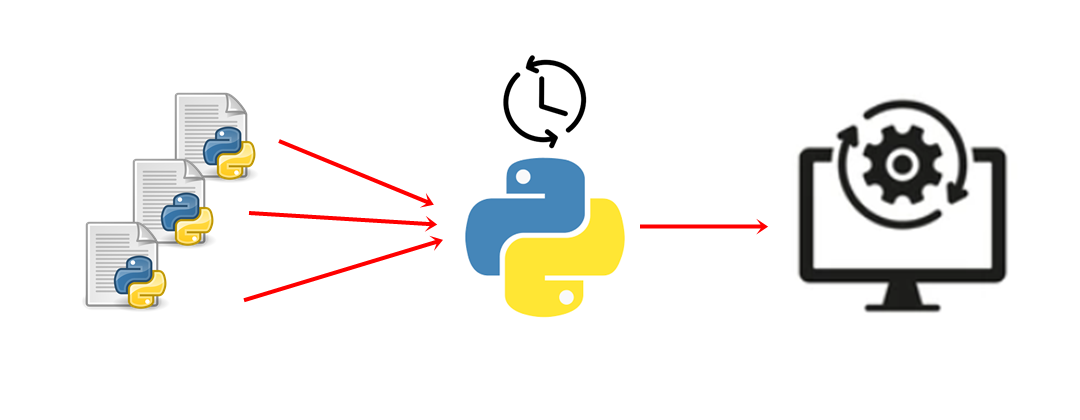
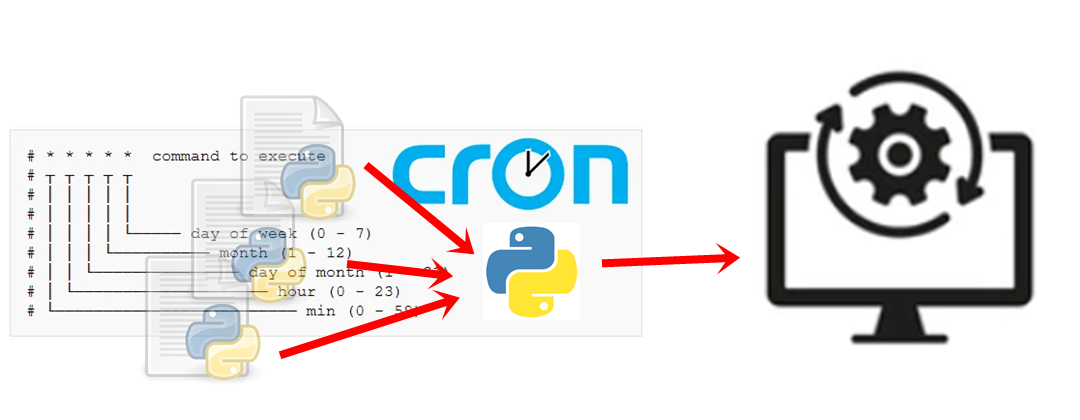
rename documentation folder

Changed region(s): [[0.0, 0.1238, 0.9778, 0.9286], [0.0611, 0.3405, 0.1222, 0.3714]]

diff --git a/main.py b/main.py
@@ -6,15 +6,51 @@ CronTaskByLokoV1.0
 This script run Task with time indication
 
 1 - put the scripts to execute in folder Task
-2 - register the time and name of script
+2 - Execute this file to work in cron time
 """
 import schedule
-from datetime import date
+from croniter import croniter
+import datetime
 import time
 from os import scandir
 
+
+def saveInfoInLOGFile(status, info):
+    _previous_log_info = ""
+    try:
+        with open("log.log", "r") as f:
+            _previous_log_info = f.read()
+    except:
+        pass
+    with open("log.log", "w") as f: # Save
+            data = ""
+
+            if _previous_log_info != "":
+                data = _previous_log_info + f"{status} - {datetime.date.today()} - {info}\n"
+            else:
+                data = f"{status} - {datetime.date.today()} - {info}\n"
+                
+            f.write(data)
+#..,,..............................:+,.............................::.........................................
+#.,#?..............................+@:............................,?*...........:#;...........................
+#.,@%.......;????;..,*????+,..,*???%@:.......;????+..:*???*,,?+;?*.*+..**+?%%+.:%@%*?:.....:?+*?%?:.;?:...:?;.
+#.,@%......%#;,,;#%..;::;+@?.:#%;::?@:......;@?,,:;.;@?:,:+::@S+;:.#S.,##;::+@*,+@*::,.....;@%;::%@;,#S,.,S#,.
+#.,@%.....:@?....?@,,*%??*@%.?@,...+@:......,?S%%*:.S#......:@*....#S.,#%....S#.:@+........;@+...,@?.:@?.?@:..
+#.,@%.....,#S,..,S#,?@:..,@%.+@+..,*@:......,,,,:%@:*@;...,,:@*....#S.,#%...:@?.:@*....;;..;@+..,*@;..;@?@;...
+#.,SS%%%%%,:%%??%%:.;SS???#?..*S%??%#:......;%???%*,,*S%??%::#+....S%.,##??%S*,.,?S??:,#S,.;@S??%%;....?@+....
+#..,,,,,,,...,::,.....,:,.,,...,::,.,........,,:,,.....,:,,..,.....,,.,@%,,,......,,,..,,..;@+,,,.....:#?.....
+#......................................................................*+..................:?:........+?,.....
 _SCRIPTS_ = {} # dict[key] = code
 # Read all scripts in folder
+def _isCronExpresionInCode(script_code, filename):
+    _1stLine = str(script_code).split("\n")[0]
+
+    if "#expresion_cron=" not in _1stLine:
+        saveInfoInLOGFile("LOAD-SCRIPT:ERROR-NOT-FOUND-CRONEXPRESION", filename)
+        return False
+    
+    return True
+
 def loadAlPythonFilesInTaskFolder():
     for i in scandir("Task"):
         if i.is_file():
@@ -22,28 +58,9 @@ def loadAlPythonFilesInTaskFolder():
                 _path = f"Task/{i.name}"
                 with open(_path) as f:
                     script_code = f.read()
-                    _SCRIPTS_[_path] = script_code
+                    if _isCronExpresionInCode(script_code, i.name):
+                        _SCRIPTS_[_path] = script_code # Save Script
 loadAlPythonFilesInTaskFolder()
-
-
-def saveInfoInLOGFile(status,info):
-    _previous_log_info = ""
-
-    try:
-        with open("log.log", "r") as f:
-            _previous_log_info = f.read()
-    except:
-        pass
-
-    with open("log.log", "w") as f: # Save
-            data = ""
-
-            if _previous_log_info != "":
-                data = _previous_log_info + f"{status} - {date.today()} - {info}\n"
-            else:
-                data = f"{status} - {date.today()} - {info}\n"
-                
-            f.write(data)
 
 
 def executeCODE(script):
@@ -62,14 +79,33 @@ def executeCODE(script):
         saveInfoInLOGFile("FAILED:EXECUTE-SCRIPT", _err)
 
 
-# Register all Task Here
-schedule.every(1).seconds.do(lambda : executeCODE("test_dict_error")) # Testing if program run if taskcode fail.
-schedule.every(1).seconds.do(lambda : executeCODE("Task/exampleEverySecondTask.py")) # Run every second
-schedule.every(1).seconds.do(lambda : executeCODE("Task/emptyTaskCode.py")) # The program run if send empty code.
-schedule.every(1).minutes.do(lambda : executeCODE("Task/exampleEveryMinuteTask.py")) # The program write a file every minute
+#  Convert CRON to Scheluded
+def schedule_from_cron(cron_expression, job_function):
+    """
+    This method convert a cront espresion in seconds and programing the seconds in scheluded
+
+    This is the first versión of code. NOT MAKE A TEST...
+    PLZ make a test in the future
+    """
+    base_time = datetime.datetime.now()
+    cron = croniter(cron_expression, base_time)
+    next_execution = cron.get_next(datetime.datetime)
+    interval = (next_execution - base_time).total_seconds()
+    schedule.every(interval).seconds.do(lambda : executeCODE(str(job_function)))
 
 
-# END to register
+# Auto registred all Task here
+for i in _SCRIPTS_:
+    _varCron = _SCRIPTS_[i] # Get ALL code
+    _varCron = str(_varCron).split("\n")[0] # In first line of code FIND cron expresion
+
+    _expresion_cron = _varCron.split("=")[-1]
+
+    cron = croniter(_expresion_cron, datetime.datetime.now())
+    next_execution = cron.get_next(datetime.datetime)
+    # Register
+    schedule_from_cron(_expresion_cron, i)
+
 
 # RUN
 while True:

diff --git a/Task/exampleEveryMinuteTask.py b/Task/exampleEveryMinuteTask.py
@@ -1,9 +1,9 @@
+#expresion_cron=* * * * *
 """
 FelipdelosH - 2023
 
 NOTE: the time is configurate in main.py (registration)
 
-This save it´s only for test a project CronJobsByLOko
+This print it´s only for test a project CronJobsByLOko
 """
-with open("minute.txt", "w") as f:
-    f.write("EVERY MINUTE I WRITE THSI FILE")
+print("every minute this task is execute...")

diff --git a/Task/exampleEveryThursdayTask.py b/Task/exampleEveryThursdayTask.py
@@ -1,3 +1,4 @@
+#expresion_cron=* * * * 4
 """
 FelipdelosH - 2023
 
@@ -5,4 +6,4 @@ NOTE: the time is configurate in main.py (registration)
 
 This print it´s only for test a project CronJobsByLOko
 """
-print("every second this task is execute...")
+print("THURSDAY : every minute this task is execute...")

diff --git a/Task/exampleEveryTenMinutesTask.py b/Task/exampleEveryTenMinutesTask.py
@@ -1,0 +1,10 @@
+#expresion_cron=*/10 * * * *
+"""
+FelipdelosH - 2023
+
+NOTE: the time is configurate in main.py (registration)
+
+This save it´s only for test a project CronJobsByLOko
+"""
+with open("tenMinuteFile.txt", "w") as f:
+    f.write("EVERY TEN MINUTES I WRITE THIS FILE")

diff --git a/readme.md b/readme.md
@@ -2,15 +2,18 @@
 <br>
 <h4>CronTask By LOko v1.0</h4>
 
-![Banner](docs/banner.png)
+![Banner](Docs/banner.png)
 :construction: IN CONTRUCTION :construction:
 <br><br>
-This program is cretate to execute Task in time lapses. If you need execute a python script for example every minute you only need follow two steps: 1 - save you python script in folder task. 2 - register the python script in main.py. the run the "main.py" file a waiting.
+This program is cretate to execute Task in time lapses using cron expresións. you only need put you script in the folder Task. and remember put the cron expresión in the first line of script. for example if you execute a script every monday at 15 O'clock:<br>
+```
+#expresion_cron=0 15 * * 1
+```
 
 ## :hammer:Funtions:
 
 - `Function 1`: Automatic load all scripts.py files in folder Task<br>
-- `Function 2`: You register a frecuency to execute every script in Task folder<br>
+- `Function 2`: Automatic register and execuion to script file in task folder<br>
 - `Function 3`: LOG system for every event in execute task folder<br>
 
 
@@ -18,6 +21,7 @@ This program is cretate to execute Task in time lapses. If you need execute a py
 
 Install all requirements with the command: pip install -r requirements.txt<br>
 insert your script.py in folder: Task/<br>
+Your script must have a cron expresión var in the first line<br>
 Register your script in main.py<br>
 RUN main.py<br>
 
@@ -26,18 +30,22 @@ RUN main.py<br>
 
 It´s based in library "Schelude" of python https://schedule.readthedocs.io/
 <br>
-you only need to undertands the time logic for example:
+It´s based in library "croniter" of python https://github.com/kiorky/croniter 
 <br>
-if you need execute a script every 15 minutes use schedule.every(1).minutes.do(lambda : method_to_call())
+you only need to put a label in first part of script (example of basic script):
 
-## To register python file
+```
+#expresion_cron=* * * * *
+print("every minute this task is execute...")
+```
 
-OPEN the file "main.py" and search registration. and put the frecuency of execute a task.
+Save it "script.py" and put it in folder "Task"
 
 ## :hammer_and_wrench:Tech.
 
-- python
+- Python
 - Schelude
+- Croniter
 
 
 ## Architecture
@@ -47,6 +55,7 @@ PROJECT
     Task
         files.py
     main.py
+    log.log
     requirements.txt
 ```
 

diff --git a/Task/readme.md b/Task/readme.md
@@ -1,2 +1,1 @@
 In this folter put all script.py and execute it.
-The execution is register inside ../main.py script file.
